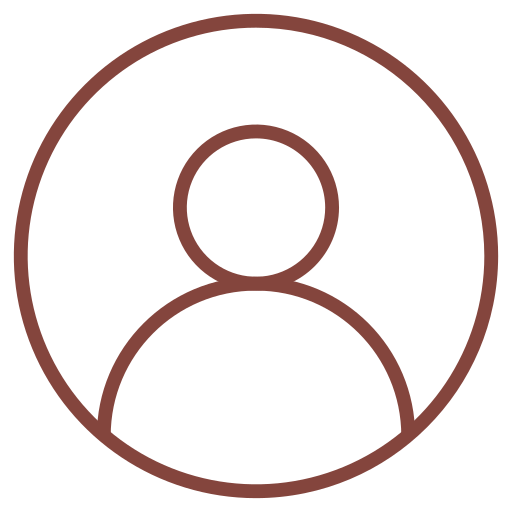
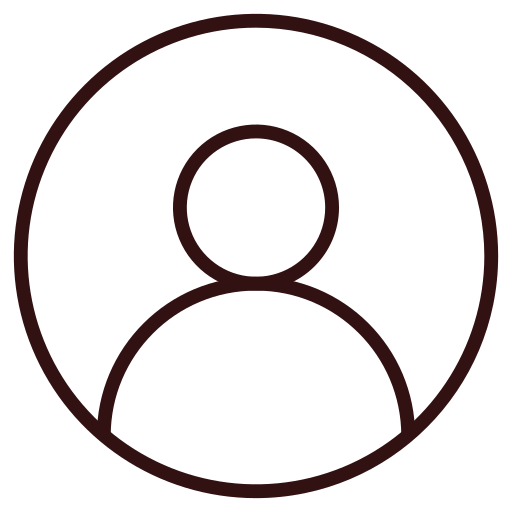
Feat: ajustes das cores dos ícones

Changed region(s): [[0.0, 0.0, 1.0, 1.0]]

diff --git a/dev-dist/sw.js b/dev-dist/sw.js
@@ -82,7 +82,7 @@ define(['./workbox-5a5d9309'], (function (workbox) { 'use strict';
     "revision": "3ca0b8505b4bec776b69afdba2768812"
   }, {
     "url": "index.html",
-    "revision": "0.7fn8esrgbtg"
+    "revision": "0.upe46eeelk8"
   }], {});
   workbox.cleanupOutdatedCaches();
   workbox.registerRoute(new workbox.NavigationRoute(workbox.createHandlerBoundToURL("index.html"), {

diff --git a/src/components/HeaderComponent.vue b/src/components/HeaderComponent.vue
@@ -296,7 +296,7 @@ header.scrolled {
 }
 
 .sigla {
-  margin-left: 1vw;
+  margin-left: 1.4vw;
   font-size: 0.8rem;
   color: white;
 }